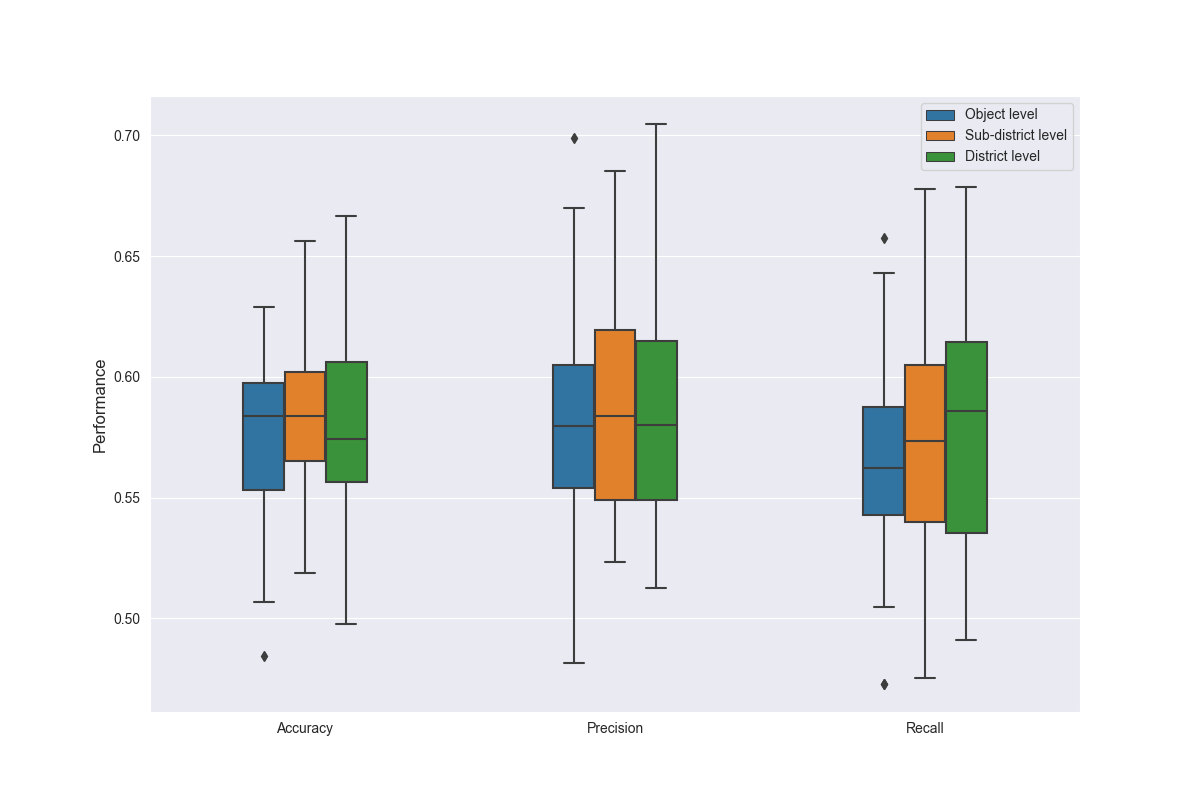
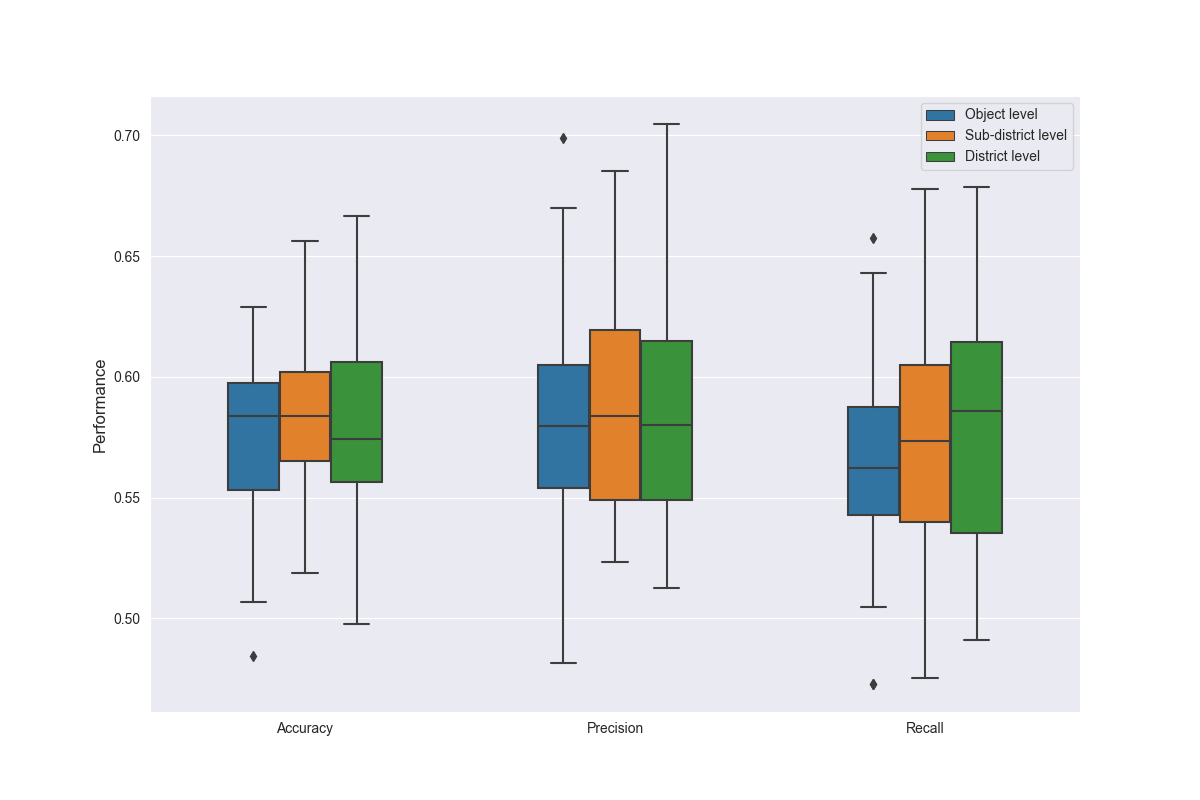
a

diff --git a/results/creating_plots/boxplotensurance.py b/results/creating_plots/boxplotensurance.py
@@ -1,0 +1,57 @@
+import seaborn as sns
+import matplotlib.pyplot as plt
+import pandas as pd
+
+sns.set_style("darkgrid")
+
+dict_height_and_rain = {
+    "Performance": [],
+    "Values": [],
+    "Resolution": [],
+}
+
+files = ["result_ensurance_all.txt", "result_ensurance_height.txt", "result_ensurance_rain.txt"]
+for file in files:
+    with open("result_texts/" + file, "r") as f:
+        all_lines = f.read().splitlines()
+        for line in all_lines:
+            if "Accuracy" in line:
+                value = float(line.split(" ")[1])
+                dict_height_and_rain["Performance"].append("Accuracy")
+                dict_height_and_rain["Values"].append(value)
+                if file == "result_ensurance_rain.txt":
+                    dict_height_and_rain["Resolution"].append("Only rain")
+                elif file == "result_ensurance_height.txt":
+                    dict_height_and_rain["Resolution"].append("Only height")
+                elif file == "result_ensurance_all.txt":
+                    dict_height_and_rain["Resolution"].append("Both rain and height")
+
+            elif "Precision" in line:
+                value = float(line.split(" ")[1])
+                dict_height_and_rain["Performance"].append("Precision")
+                dict_height_and_rain["Values"].append(value)
+                if file == "result_ensurance_rain.txt":
+                    dict_height_and_rain["Resolution"].append("Only rain")
+                elif file == "result_ensurance_height.txt":
+                    dict_height_and_rain["Resolution"].append("Only height")
+                elif file == "result_ensurance_all.txt":
+                    dict_height_and_rain["Resolution"].append("Both rain and height")
+
+            elif "Recall" in line:
+                value = float(line.split(" ")[1])
+                dict_height_and_rain["Performance"].append("Recall")
+                dict_height_and_rain["Values"].append(value)
+                if file == "result_ensurance_rain.txt":
+                    dict_height_and_rain["Resolution"].append("Only rain")
+                elif file == "result_ensurance_height.txt":
+                    dict_height_and_rain["Resolution"].append("Only height")
+                elif file == "result_ensurance_all.txt":
+                    dict_height_and_rain["Resolution"].append("Both rain and height")
+
+df_rain = pd.DataFrame(data=dict_height_and_rain)
+
+plt.rcParams['figure.figsize'] = (12, 8)
+
+ax = sns.boxplot(x='Performance', y='Values', hue='Resolution', data=dict_height_and_rain, width=0.5, palette="Set2")
+plt.ylabel("Performance", fontsize=12)
+plt.savefig("ensurance.png")

diff --git a/src/scripts/analysis/analysis_ensurance.py b/src/scripts/analysis/analysis_ensurance.py
@@ -7,7 +7,7 @@ from sklearn.metrics import confusion_matrix, precision_score, recall_score
 from sklearn import metrics
 
 resultFolder = "/local/s2656566/wateroverlast/regenwater_overlast/results/result_texts/"
-resultFile = open(resultFolder + "result_ensurance_height.txt", "w+")
+resultFile = open(resultFolder + "result_ensurance_rain.txt", "w+")
 
 
 def normalize(row):
@@ -42,18 +42,18 @@ for path in paths:
     df = pd.read_pickle(
         f"/local/s2656566/wateroverlast/regenwater_overlast/src/data/pkls/ensurance/{path}").reset_index()
     df = df.dropna()
-    df = df[["date", "target", "layers"]]
-    listofarr = []
-    column = "layers"
+    df = df[["date", "target", "past3hours"]]
+    # listofarr = []
+    # column = "layers"
 
-    df[column] = df.apply(normalize, axis=1)
-    df[column] = df.apply(reshape, axis=1)
-
-    concat_df = pd.concat(listofarr)
-
-    df = concat_df.dropna(axis="columns", how="all")
-    df = df.reset_index(drop=True)
-    rain_p2000 = df.drop(columns=['indexl', 'index'])
+    # df[column] = df.apply(normalize, axis=1)
+    # df[column] = df.apply(reshape, axis=1)
+    #
+    # concat_df = pd.concat(listofarr)
+    #
+    # df = concat_df.dropna(axis="columns", how="all")
+    # df = df.reset_index(drop=True)
+    # rain_p2000 = df.drop(columns=['indexl', 'index'])
 
     directory = os.fsencode("src/test_frames/")
     all_files = []
@@ -63,9 +63,9 @@ for path in paths:
     ten_random_files = random.sample(all_files, 10)
     for filename in ten_random_files:
         test_frame = pd.read_csv(f"src/test_frames/{filename}", index_col=0)
-        # # test_frame = test_frame[["past3hours", "date", "target"]]
-        list_399 = [str(x) for x in list(range(400))]
-        test_frame = test_frame[list_399 + ['date', 'target']]
+        test_frame = test_frame[["past3hours", "date", "target"]]
+        # list_399 = [str(x) for x in list(range(400))]
+        # test_frame = test_frame[list_399 + ['date', 'target']]
         # # print(test_frame)
         # # print(test_frame)
         # dates_test_frame = test_frame["date"].tolist()

diff --git a/results/creating_plots/boxplotheightandrain.py b/results/creating_plots/boxplotheightandrain.py
@@ -51,6 +51,6 @@ df_rain = pd.DataFrame(data=dict_height_and_rain)
 
 plt.rcParams['figure.figsize'] = (12,8)
 
-ax = sns.boxplot(x='Performance', y='Values', hue='Resolution', data=dict_height_and_rain, width=0.4)
+ax = sns.boxplot(x='Performance', y='Values', hue='Resolution', data=dict_height_and_rain, width=0.5)
 plt.ylabel("Performance", fontsize= 12)
 plt.savefig("hoogtenneerslag.png")

diff --git a/results/creating_plots/boxplotrain.py b/results/creating_plots/boxplotrain.py
@@ -51,7 +51,7 @@ df_rain = pd.DataFrame(data=dict_rain)
 
 plt.rcParams['figure.figsize'] = (12,8)
 
-ax = sns.boxplot(x='Performance', y='Values', hue='Resolution', data=dict_rain, width=0.4)
+ax = sns.boxplot(x='Performance', y='Values', hue='Resolution', data=dict_rain, width=0.5)
 plt.ylabel("Performance", fontsize= 12)
 
 plt.savefig("alleenneerslag.png")
